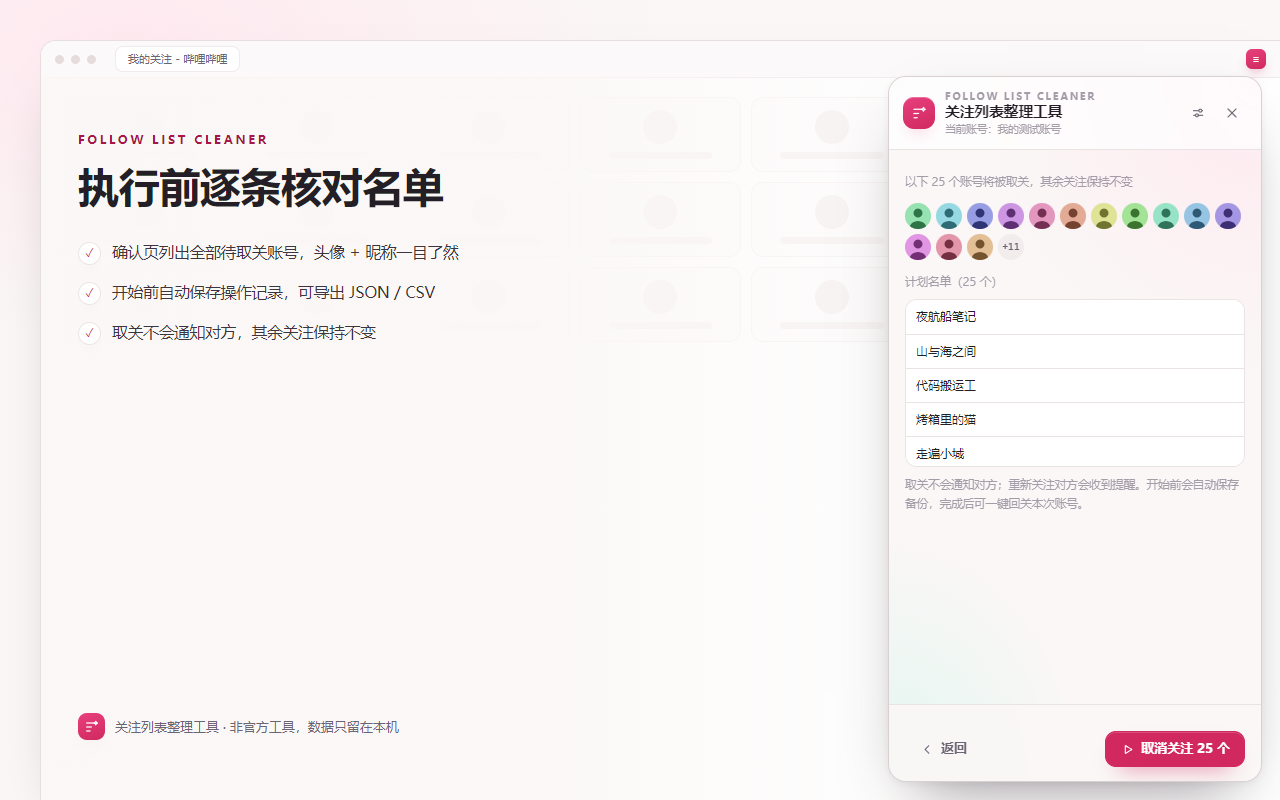
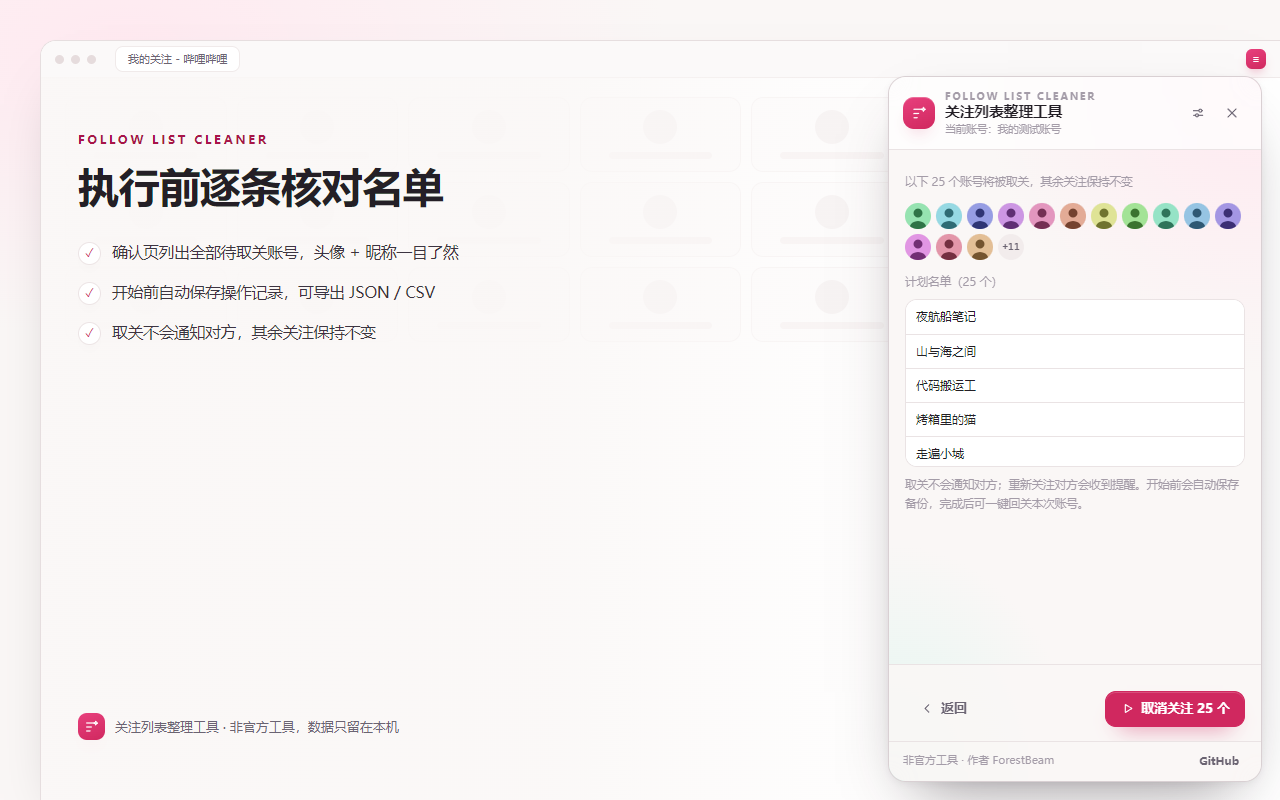
feat(v1.3): 品牌统一与产品内增长位（页脚作者链接 / 完成页报告卡 / 关于与反馈）

Changed region(s): [[0.8438, 0.8438, 1.0, 0.9688], [0.7188, 0.875, 0.8125, 0.9688]]

diff --git a/src/content-ui/panel.ts b/src/content-ui/panel.ts
@@ -5,6 +5,7 @@ import {
   toBackupJson,
   type BackupRecord,
 } from '../core/backup';
+import { AUTHOR_NAME, ISSUES_URL, REPO_URL } from '../core/links';
 import { MAX_PROTECTED, isSpecialFollow } from '../core/protection';
 import {
   LIMIT_MAX,
@@ -15,7 +16,8 @@ import {
   delayRangeMs,
   type Settings,
 } from '../core/settings';
-import { progress, type FollowUser } from '../core/task';
+import { buildShareText, reportHeadline, type ShareSummary } from '../core/share';
+import { progress, type FollowUser, type TaskProgress } from '../core/task';
 import type { UiSnapshot } from './controller';
 import { PANEL_CSS } from './styles';
 
@@ -256,7 +258,17 @@ export function createPanel(actions: PanelActions, options: PanelOptions = {}) {
   header.append(mark, titles, headerActions);
 
   const main = h('main');
-  panel.append(header, main);
+  const byline = h('footer', 'byline');
+  const authorLine = h('span', 'byline-txt', `非官方工具 · 作者 ${AUTHOR_NAME}`);
+  const githubLink = h('button', 'mini', 'GitHub') as HTMLButtonElement;
+  githubLink.type = 'button';
+  githubLink.title = '在 GitHub 查看源码、更新与反馈（新标签打开）';
+  githubLink.setAttribute('aria-label', githubLink.title);
+  githubLink.addEventListener('click', () => {
+    window.open(REPO_URL, '_blank', 'noopener');
+  });
+  byline.append(authorLine, h('span', 'grow'), githubLink);
+  panel.append(header, main, byline);
   shadow.append(style, panel);
   document.body.append(host);
 
@@ -749,6 +761,47 @@ export function createPanel(actions: PanelActions, options: PanelOptions = {}) {
     container.append(foot);
   }
 
+  function reportCard(snapshot: UiSnapshot, stats: TaskProgress): HTMLElement {
+    const summary: ShareSummary = {
+      kind: snapshot.task.kind,
+      done: stats.done,
+      failed: stats.failed,
+    };
+    const card = h('div', 'report');
+    const top = h('div', 'report-top');
+    top.append(h('div', 'report-head', reportHeadline(summary)));
+    const copy = h('button', 'mini', '复制文案') as HTMLButtonElement;
+    copy.type = 'button';
+    copy.title = '复制一段可直接粘贴的分享文案（不含昵称）';
+    copy.setAttribute('aria-label', copy.title);
+    copy.addEventListener('click', () => {
+      const clipboard = navigator.clipboard as Clipboard | undefined;
+      if (!clipboard) {
+        actions.onInfo('当前环境不支持自动复制，直接截图本卡片也可以。');
+        return;
+      }
+      void clipboard.writeText(buildShareText(summary)).then(
+        () => {
+          copy.textContent = '已复制';
+          copy.disabled = true;
+        },
+        () => actions.onInfo('复制失败，直接截图本卡片也可以。'),
+      );
+    });
+    top.append(copy);
+    card.append(top);
+    const sub = [`计划 ${stats.total} 个`];
+    if (stats.failed > 0) {
+      sub.unshift(`失败 ${stats.failed} 个`);
+    }
+    card.append(h('div', 'report-sub', sub.join(' · ')));
+    const mark = h('div', 'report-mark');
+    mark.append(h('span', 'report-mark-line', '由「关注列表整理工具」生成'));
+    mark.append(h('span', 'report-mark-url', REPO_URL.replace('https://', '')));
+    card.append(mark);
+    return card;
+  }
+
   function renderDone(container: HTMLElement, snapshot: UiSnapshot): void {
     const stats = progress(snapshot.task);
     const aborted = snapshot.phase === 'aborted';
@@ -764,13 +817,17 @@ export function createPanel(actions: PanelActions, options: PanelOptions = {}) {
         aborted ? 'stop' : 'check',
       ),
     );
-    const tiles = h('div', 'tiles');
-    tiles.append(
-      tile(undo ? '已重新关注' : '成功取关', stats.done),
-      tile('失败', stats.failed, stats.failed > 0),
-      tile('计划', stats.total),
-    );
-    container.append(tiles);
+    if (stats.done > 0) {
+      container.append(reportCard(snapshot, stats));
+    } else {
+      const tiles = h('div', 'tiles');
+      tiles.append(
+        tile(undo ? '已重新关注' : '成功取关', stats.done),
+        tile('失败', stats.failed, stats.failed > 0),
+        tile('计划', stats.total),
+      );
+      container.append(tiles);
+    }
 
     if (!undo && stats.done > 0) {
       const undoSection = h('div', 'sec');
@@ -956,6 +1013,35 @@ export function createPanel(actions: PanelActions, options: PanelOptions = {}) {
     }
     backups.append(backupRows);
     container.append(backups);
+
+    const about = h('div', 'sec');
+    about.append(h('h4', '', '关于与反馈'));
+    about.append(
+      h(
+        'div',
+        'hint',
+        `免费开源，无账号、无统计；作者 ${AUTHOR_NAME}。如果它帮到了你，欢迎在 GitHub 点个 Star 或推荐给朋友。`,
+      ),
+    );
+    const aboutLinks = h('div', 'link-row');
+    aboutLinks.append(
+      button(
+        '反馈问题 / 提需求',
+        () => {
+          window.open(ISSUES_URL, '_blank', 'noopener');
+        },
+        { size: 'sm', icon: 'link' },
+      ),
+      button(
+        '项目主页 / 更新日志',
+        () => {
+          window.open(REPO_URL, '_blank', 'noopener');
+        },
+        { size: 'sm', variant: 'ghost' },
+      ),
+    );
+    about.append(aboutLinks);
+    container.append(about);
 
     const foot = h('div', 'foot');
     foot.append(

diff --git a/src/content-ui/styles.ts b/src/content-ui/styles.ts
@@ -285,6 +285,29 @@ main::-webkit-scrollbar-thumb { background: var(--line-strong); border-radius: 9
   animation: bfc-shimmer 1.3s ease-in-out infinite; }
 .sk.card-sk { height: 82px; }
 
+/* ---------- byline / report card / about ---------- */
+.byline { flex: none; display: flex; align-items: center; gap: 8px; padding: 8px 14px 9px;
+  border-top: 1px solid var(--line); background: var(--foot-bg); backdrop-filter: blur(10px);
+  font-size: 11px; color: var(--ink-3); }
+.byline .grow { flex: 1; min-width: 0; }
+.byline-txt { overflow: hidden; text-overflow: ellipsis; white-space: nowrap; }
+.mini { flex: none; border: none; border-radius: 8px; padding: 3px 8px; background: transparent;
+  color: var(--ink-2); font: 600 11px/1.5 var(--font-sans); cursor: pointer; white-space: nowrap;
+  transition: background 0.15s, color 0.15s; }
+.mini:hover:not(:disabled) { background: var(--card-2); color: var(--brand-ink); }
+.mini:disabled { color: var(--mint); cursor: default; opacity: 1; }
+.mini:focus-visible { outline: 2px solid var(--brand); outline-offset: 1px; }
+.report { margin-top: 12px; padding: 11px 12px 9px; border-radius: 14px;
+  border: 1px solid var(--line-strong); background: var(--card); box-shadow: var(--shadow-sm); }
+.report-top { display: flex; align-items: center; gap: 10px; }
+.report-head { flex: 1; min-width: 0; font-size: 15px; font-weight: 700; letter-spacing: 0.01em; }
+.report-sub { margin-top: 4px; font-size: 11.5px; color: var(--ink-2); }
+.report-mark { margin-top: 8px; padding-top: 7px; border-top: 1px dashed var(--line);
+  font-size: 10px; color: var(--ink-3); }
+.report-mark-line { display: block; }
+.report-mark-url { display: block; font-family: var(--font-num); }
+.link-row { display: flex; flex-wrap: wrap; gap: 8px; margin-top: 10px; }
+
 /* ---------- motion ---------- */
 @keyframes bfc-rise { from { opacity: 0; transform: translateY(10px) scale(0.99); } }
 @keyframes bfc-fade { from { opacity: 0; transform: translateY(4px); } }

diff --git a/tests/share.test.ts b/tests/share.test.ts
@@ -1,0 +1,23 @@
+import { describe, expect, it } from 'vitest';
+import { REPO_URL } from '../src/core/links';
+import { buildShareText, reportHeadline } from '../src/core/share';
+
+describe('完成页报告文案', () => {
+  it('取关完成后生成可分享文案', () => {
+    const text = buildShareText({ kind: 'unfollow', done: 128, failed: 0 });
+    expect(text).toContain('清理了 128 个关注');
+    expect(text).toContain(REPO_URL);
+  });
+
+  it('回关任务使用「回关」措辞', () => {
+    expect(reportHeadline({ kind: 'follow', done: 12, failed: 0 })).toBe('回关了 12 个关注');
+  });
+
+  it('有失败项时带上失败数量', () => {
+    expect(buildShareText({ kind: 'unfollow', done: 10, failed: 2 })).toContain('失败 2 个');
+  });
+
+  it('无失败项时不出现「失败」字样', () => {
+    expect(buildShareText({ kind: 'follow', done: 3, failed: 0 })).not.toContain('失败');
+  });
+});

diff --git a/src/core/share.ts b/src/core/share.ts
@@ -1,0 +1,18 @@
+import { REPO_URL } from './links';
+import type { TaskKind } from './task';
+
+export interface ShareSummary {
+  kind: TaskKind;
+  done: number;
+  failed: number;
+}
+
+export function reportHeadline(summary: ShareSummary): string {
+  const action = summary.kind === 'follow' ? '回关了' : '清理了';
+  return `${action} ${summary.done} 个关注`;
+}
+
+export function buildShareText(summary: ShareSummary): string {
+  const failed = summary.failed > 0 ? `，失败 ${summary.failed} 个` : '';
+  return `${reportHeadline(summary)}${failed}。开源浏览器扩展「关注列表整理工具」，数据只存本机：${REPO_URL}`;
+}

diff --git a/src/core/links.ts b/src/core/links.ts
@@ -1,0 +1,7 @@
+/**
+ * 对外链接与作者信息：面板页脚、完成页报告卡、设置页「关于」共用同一处常量。
+ * 修改仓库地址时同步 manifest.json 的 homepage_url（有单测兜底）。
+ */
+export const AUTHOR_NAME = 'ForestBeam';
+export const REPO_URL = 'https://github.com/ForestBeam/bili-follow-cleaner';
+export const ISSUES_URL = `${REPO_URL}/issues`;

diff --git a/tests/links.test.ts b/tests/links.test.ts
@@ -1,0 +1,9 @@
+import { describe, expect, it } from 'vitest';
+import manifest from '../manifest.json';
+import { REPO_URL } from '../src/core/links';
+
+describe('对外链接', () => {
+  it('manifest 主页与面板使用的仓库地址一致', () => {
+    expect(manifest.homepage_url).toBe(REPO_URL);
+  });
+});

diff --git a/README.md b/README.md
@@ -16,6 +16,8 @@
 - 最近关注排除：最近 N 天关注的账号默认跳过（默认 7 天，可在设置中改为 0 关闭）
 - 昵称搜索 + 滚动加载 + 卡片主页入口，取关前方便核对
 - 完成页「回关本次 N 个」：误删可一键重新关注，走同一套节奏与重试
+- 完成页清理报告卡：显示本次数量与计划，可一键复制分享文案（自带工具署名，方便截图）
+- 面板页脚常驻作者与 GitHub 入口；设置页「关于与反馈」可直接提问题、看更新
 - 工具栏图标再点即关闭面板，Esc 也可关闭；选择自动保留，刷新不丢
 - 保护锁在卡片上双向切换；中止任务需二次确认
 - 极简设置：执行间隔（标准 / 保守）、单次上限、最近关注天数、保护名单、通知开关、显示原始错误信息
@@ -71,6 +73,13 @@ node scripts/gen-icon.mjs  # 重新生成图标
 文档：设计规格 `docs/superpowers/specs/`、实现计划 `docs/superpowers/plans/`、真机清单 [docs/e2e-checklist.md](docs/e2e-checklist.md)。
 
 商店上架材料（文案 / 审核说明 / 截图 / 提交清单）见 [store/](store/README.md)。
+
+## 作者与反馈
+
+- 作者：ForestBeam
+- 项目主页 / 更新日志：https://github.com/ForestBeam/bili-follow-cleaner
+- 问题反馈 / 功能建议：https://github.com/ForestBeam/bili-follow-cleaner/issues
+- 工具完全免费、开源（MIT），没有账号体系，也不会有付费版本；如果它帮到了你，欢迎在 GitHub 点个 Star，或推荐给需要的朋友。
 
 ## 许可
 

diff --git a/store/listing-en.md b/store/listing-en.md
@@ -27,6 +27,7 @@ Follow List Cleaner helps you tidy up the accounts you follow on Bilibili: pick 
 - Protection list: manually locked accounts plus Bilibili "Special follow" are never selected
 - Recent-follow exclusion: accounts followed within the last 7 days are skipped by default
 - Operation log: a plan-and-result snapshot is saved before each run and can be exported as JSON / CSV
+- Finish screen report card: shows what this run did and lets you copy a share-ready summary
 
 ### How to use
 
@@ -44,3 +45,7 @@ Follow List Cleaner helps you tidy up the accounts you follow on Bilibili: pick 
 ### Disclaimer
 
 This is an unofficial tool, not affiliated with or endorsed by Bilibili. Bulk unfollowing may trigger platform rate limits; defaults are conservative on purpose. Start small and follow Bilibili's terms of service.
+
+### About the author
+
+Built by ForestBeam. Open source (MIT): https://github.com/ForestBeam/bili-follow-cleaner . The panel footer and the settings "About & feedback" section link to the project home and issue tracker; links only open when the user clicks them, and the extension itself makes no external requests.

diff --git a/AGENTS.md b/AGENTS.md
@@ -16,6 +16,7 @@ Manifest V3 浏览器扩展（桌面版 Edge / Chrome），用于批量整理 B 
 | 设计规格 | `docs/superpowers/specs/2026-10-07-bili-follow-cleaner-design.md` | 架构、功能规格、验收清单 |
 | 设计规格 v1.1 | `docs/superpowers/specs/2026-10-07-bili-follow-cleaner-v1.1-design.md` | 保护名单、最近关注排除、风控自动降速 |
 | 设计规格 v1.2 | `docs/superpowers/specs/2026-10-07-bili-follow-cleaner-v1.2-ux-design.md` | 交互修订：一键回关、搜索、控件闭环与文案 |
+| 设计规格 v1.3 | `docs/superpowers/specs/2026-10-08-bili-follow-cleaner-v1.3-growth-design.md` | 品牌统一与产品内增长位（页脚、报告卡、关于） |
 | 实现计划 | `docs/superpowers/plans/2026-10-07-bili-follow-cleaner-plan.md` | 里程碑与任务拆解 |
 | 真机清单 | `docs/e2e-checklist.md` | 上架前人工验证步骤 |
 | 上架材料 | `store/` | 商店文案、审核说明、标准尺寸截图与提交清单 |

diff --git a/store/listing-zh.md b/store/listing-zh.md
@@ -27,6 +27,7 @@
 - 保护名单：手动锁定 ∪ B 站「特别关注」，名单内账号永不被选中
 - 最近关注排除：最近 7 天新关注的账号默认跳过（天数可调）
 - 操作记录：开始前自动保存一份计划与结果，可导出 JSON / CSV
+- 完成页报告卡：显示本次整理数量，可一键复制分享文案（自带工具署名）
 
 ### 怎么用
 
@@ -44,3 +45,7 @@
 ### 说明
 
 本扩展为非官方工具，与哔哩哔哩官方无任何关联，未获官方授权。批量取关可能触发平台风控提示，默认参数偏保守，建议从小批量开始，并遵守 B 站用户协议。
+
+### 关于作者
+
+作者 ForestBeam，项目开源（MIT）：https://github.com/ForestBeam/bili-follow-cleaner 。面板底部与设置页「关于与反馈」提供项目主页与反馈入口，均为用户主动点击后在新标签打开；扩展自身不发起任何外部请求。
